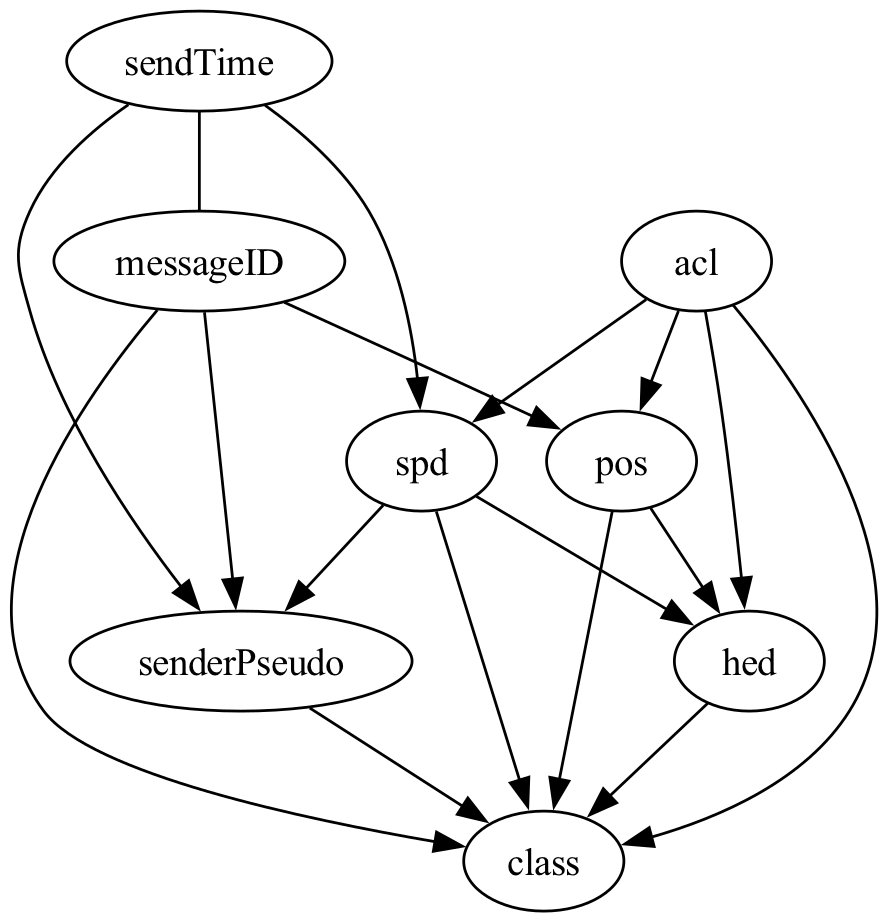
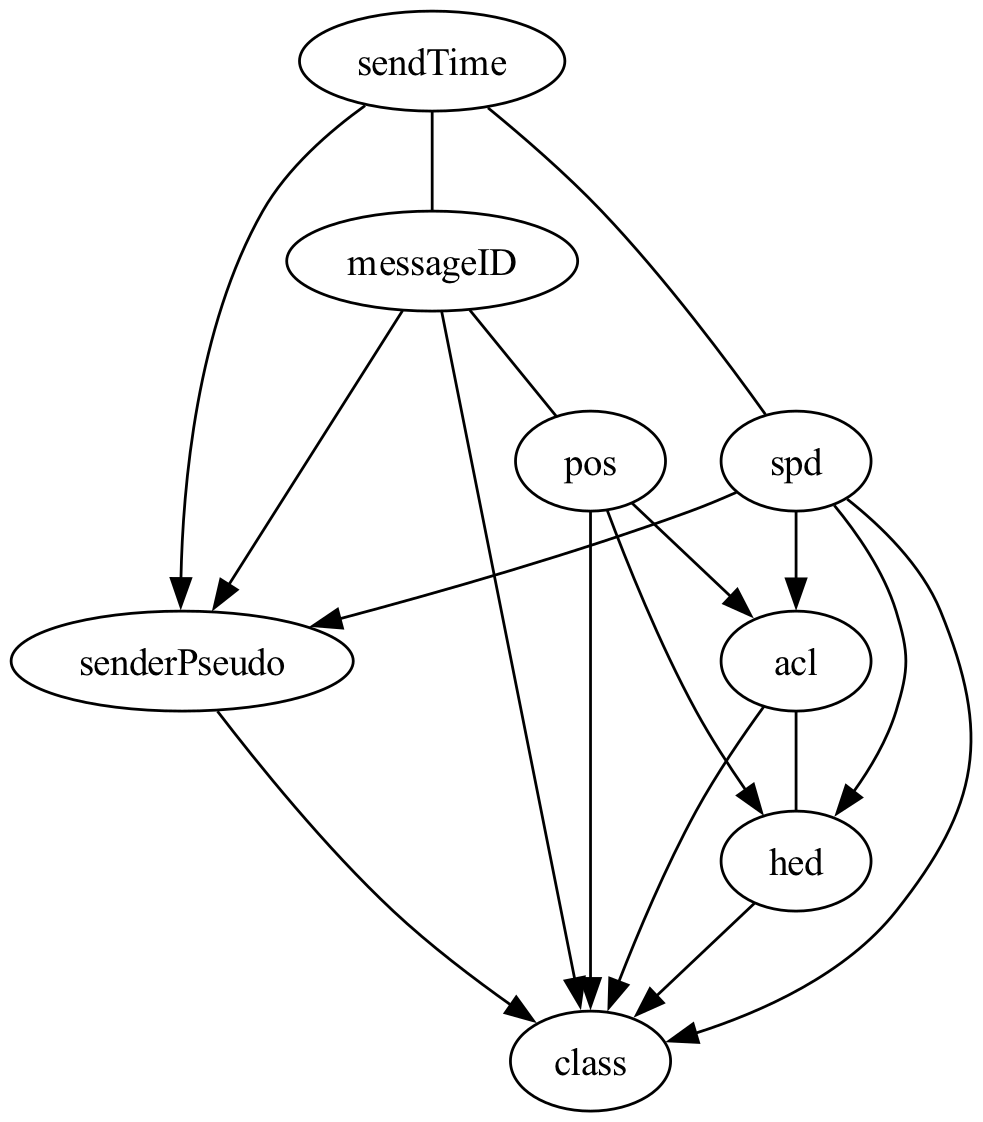
update

diff --git a/XAI/causal/causal_discovery.py b/XAI/causal/causal_discovery.py
@@ -129,6 +129,11 @@ def notears_linear(X, lambda1, loss_type, max_iter=500, h_tol=1e-8, rho_max=1e+1
         g_obj = np.concatenate((G_smooth + lambda1, - G_smooth + lambda1), axis=None)
         return obj, g_obj
 
+    def _enforce_leafnode(W, u):
+        W2 = W.copy()
+        W2[:, u] = 0.0
+        return W2
+
     n, d = X.shape
     w_est, rho, alpha, h = np.zeros(2 * d * d), 1.0, 0.0, np.inf  # double w_est into (w_pos, w_neg)
     bnds = [(0, 0) if i == j else (0, None) for _ in range(2) for i in range(d) for j in range(d)]
@@ -150,6 +155,8 @@ def notears_linear(X, lambda1, loss_type, max_iter=500, h_tol=1e-8, rho_max=1e+1
             break
     W_est = _adj(w_est)
     W_est[np.abs(W_est) < w_threshold] = 0
+    # W_est[7, :] = 0.0
+    W_est = _enforce_leafnode(W_est, 7)
     return W_est
 
 
@@ -272,7 +279,7 @@ def boss(
     gsts = [GST(v, score) for v in order]
     print(f'gsts:{gsts}')
 
-    # New >>> Added forbidden node to gst, class will not be a parent node to any others nodes.
+    # New >>> Added forbidden node to gst, class will not be a parent node to any other nodes.
     for gst in gsts:
         if gst.vertex != leaf_idx:
             gst.forbidden.append(leaf_idx)
@@ -365,3 +372,106 @@ def better_mutation(v, order, gsts):
     order.insert(best - int(best > i), v)
 
     return True
+
+# New NOTEARS Algorithm
+
+# def notears_linear(X, lambda1, loss_type, leaf_nodes, max_iter=500, h_tol=1e-8, rho_max=1e+16, w_threshold=0.3):
+#     """
+#     solve min_W L(W; X) + lambda1 ‖W‖_1 s.t. h(W) = 0 using augmented Lagrangian.
+#
+#     Args:
+#         X (np.ndarray): [n, d] sample matrix
+#         lambda1 (float): l1 penalty parameter
+#         loss_type (str): l2, logistic, poisson
+#         max_iter (int): max num of dual ascent steps
+#         h_tol (float): exit if |h(w_est)| <= htol
+#         rho_max (float): exit if rho >= rho_max
+#         w_threshold (float): drop edge if |weight| < threshold
+#
+#     Returns:
+#         W_est (np.ndarray): [d, d] estimated DAG
+#     """
+#     def _loss(W):
+#         """Evaluate value and gradient of loss."""
+#         M = X @ W
+#         if loss_type == 'l2':
+#             R = X - M
+#             loss = 0.5 / X.shape[0] * (R ** 2).sum()
+#             G_loss = - 1.0 / X.shape[0] * X.T @ R
+#         elif loss_type == 'logistic':
+#             loss = 1.0 / X.shape[0] * (np.logaddexp(0, M) - X * M).sum()
+#             G_loss = 1.0 / X.shape[0] * X.T @ (sigmoid(M) - X)
+#         elif loss_type == 'poisson':
+#             S = np.exp(M)
+#             loss = 1.0 / X.shape[0] * (S - X * M).sum()
+#             G_loss = 1.0 / X.shape[0] * X.T @ (S - X)
+#         else:
+#             raise ValueError('unknown loss type')
+#         return loss, G_loss
+#
+#     def _h(W):
+#         """Evaluate value and gradient of acyclicity constraint."""
+#         E = slin.expm(W * W)  # (Zheng et al. 2018)
+#         h = np.trace(E) - d
+#         #     # A different formulation, slightly faster at the cost of numerical stability
+#         #     M = np.eye(d) + W * W / d  # (Yu et al. 2019)
+#         #     E = np.linalg.matrix_power(M, d - 1)
+#         #     h = (E.T * M).sum() - d
+#         G_h = E.T * W * 2
+#         return h, G_h
+#
+#     def _adj(w):
+#         """Convert doubled variables ([2 d^2] array) back to original variables ([d, d] matrix)."""
+#         return (w[:d * d] - w[d * d:]).reshape([d, d])
+#
+#     def _func(w):
+#         """Evaluate value and gradient of augmented Lagrangian for doubled variables ([2 d^2] array)."""
+#         W = _adj(w)
+#         loss, G_loss = _loss(W)
+#         h, G_h = _h(W)
+#         obj = loss + 0.5 * rho * h * h + alpha * h + lambda1 * w.sum()
+#         G_smooth = G_loss + (rho * h + alpha) * G_h
+#         g_obj = np.concatenate((G_smooth + lambda1, - G_smooth + lambda1), axis=None)
+#         return obj, g_obj
+#
+#     n, d = X.shape
+#     if loss_type == 'l2':
+#         X = X - np.mean(X, axis=0, keepdims=True)
+#
+#     bnds = [(0, 0) if i == j else (0, None) for _ in range(2) for i in range(d) for j in range(d)]
+#
+#     if leaf_nodes is not None:
+#         if isinstance(leaf_nodes, int):
+#             leaf_nodes = [leaf_nodes]
+#     #     for u in leaf_nodes:
+#     #         for j in range(d):
+#     #             if j == u:
+#     #                 continue
+#     #             idx = u * d + j
+#     #             bnds[idx] = (0, 0)
+#     #             bnds[d * d + idx] = (0, 0)
+#
+#     w_est, rho, alpha, h = np.zeros(2 * d * d), 1.0, 0.0, np.inf  # double w_est into (w_pos, w_neg)
+#
+#     for _ in range(max_iter):
+#         w_new, h_new = None, None
+#         while rho < rho_max:
+#             sol = sopt.minimize(_func, w_est, method='L-BFGS-B', jac=True, bounds=bnds)
+#             w_new = sol.x
+#             h_new, _ = _h(_adj(w_new))
+#             if h_new > 0.25 * h:
+#                 rho *= 10
+#             else:
+#                 break
+#         w_est, h = w_new, h_new
+#         alpha += rho * h
+#         if h <= h_tol or rho >= rho_max:
+#             break
+#     W_est = _adj(w_est)
+#     W_est[np.abs(W_est) < w_threshold] = 0
+#
+#     if leaf_nodes is not None:
+#         for u in leaf_nodes:
+#             W_est[u, :] = 0.0
+#
+#     return W_est
